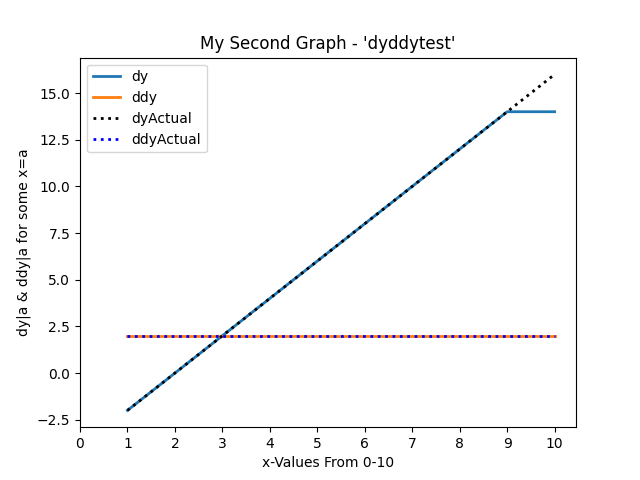
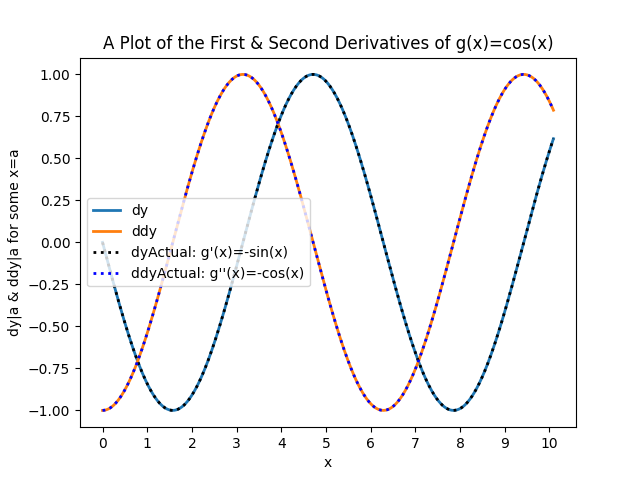
commit before final submission

diff --git a/project1.py b/project1.py
@@ -45,7 +45,7 @@ def myID():
 """
 The following code creates the x and y value arrays.
 """
-x = np.arange(0,10.1,0.1) # from 0-10 inclusive in steps of 0.1
+x = np.arange(0,10.1,0.01) # from 0-10 inclusive in steps of 0.1
 y = myfunction(x)
 
 """
@@ -54,9 +54,9 @@ The following code creates a graph with linewidth lw and adds the x-axis, y-axis
 lw = 2
 plt.clf() # clears the plot (source: https://www.activestate.com/resources/quick-reads/how-to-clear-a-plot-in-python/)
 plt.plot(x,y,linewidth=lw)
-plt.xlabel("x-Values From 0-10")
+plt.xlabel("x")
 plt.ylabel("myfunction(x)")
-plt.title("My First Graph - 'yPlot'")
+plt.title("A Plot of myFunction")
 plt.savefig("yplot.png")
  # plt.show()
 
@@ -87,8 +87,8 @@ def numdiff(h, y):
     """
     dyFirstValue = (-y[2]+(4*y[1])-(3*y[0]))/(2*h)
     ddyFirstValue = (-y[3]+(4*y[2])-(5*y[1])+(2*y[0]))/(h**2)
-    dyLastValue = ((3*y[n])-(4*y[n-1])+y[n-2])/(2*h)
-    ddyLastValue = ((2*y[n])-(5*y[n-1])+(4*y[n-2])-y[n-3])/(h**2)
+    dyLastValue = ((3*y[numElements-1])-(4*y[numElements-2])+y[numElements-3])/(2*h)
+    ddyLastValue = ((2*y[numElements-1])-(5*y[numElements-2])+(4*y[numElements-3])-(y[numElements-4]))/(h**2)
     dy.insert(0,dyFirstValue)
     ddy.insert(0,ddyFirstValue)
     dy.append(dyLastValue)
@@ -99,14 +99,17 @@ def numdiff(h, y):
 # TASK 4: Test your numdiff function on a function of your choice
 
 """
-The following code creates a function g(x) which can be differentiated twice
+The following code creates a function h(x) which can be differentiated twice
 """
-def g(x):
-    # g(x): int -> int
-    # My function is g(x) = x^2 - 4x + 3, such that the roots where g(x)=0 are at x=1,3
-    return ((x**2) - (4*x) + 3)
 
-xValues = [1,2,3,4,5,6,7,8,9,10] # an array of predetermined x-values
+def g(x):
+    # my function is cos(x)
+    # g(x): reals -> [-1,1]
+    return np.cos(x) 
+
+hVal = 0.01 # the spacing between each consecutive x value, which is predetermined
+
+xValues = np.arange(0,10.1,hVal) # an array of predetermined x-values
 yValues = [] # an empty array which will be populated with the corresponding y-values
 
 """
@@ -114,8 +117,9 @@ The following loop populates the yValues array with the appropriate y values.
 """
 for n in range(len(xValues)):
     yValues.append(g(xValues[n]))
+
  
-dy, ddy = numdiff(1,yValues) # the return values of the numdiff function are stored in the variables dy and ddy respectively
+dy, ddy = numdiff(hVal,yValues) # the return values of the numdiff function are stored in the variables dy and ddy respectively
 
 """
 The following functions define the actual first and second derivatives for my function g(x)
@@ -123,16 +127,17 @@ The following functions define the actual first and second derivatives for my fu
 
 def dyActual(x):
     # dyActual: int -> int
-    return ((2*x) - 4)
+    return ((np.sin(x)) * -1)
 
 def ddyActual(x):
     # ddyActual: int -> int
-    return 2
+    return ((np.cos(x)) * -1)
 
 dyActualValues = [] # empty list which will be populated with the real values of dy (i.e. values of dy calculated using the known g'(x) for my function g(x) rather than numerically using the numdiff function)
 ddyActualValues = [] # empty list which will be populated with the real values of dy (i.e. values of ddy calculated using the known g''(x) for my function g(x) rather than numerically using the numdiff function)
 
-for a in range(len(xValues)): # this loop populated the dyActualValues and ddyActualValues list as described above
+
+for a in range(len(xValues)): # this loop populates the dyActualValues and ddyActualValues list as described above
     dyActualValues.append(dyActual(xValues[a]))
     ddyActualValues.append(ddyActual(xValues[a]))
 
@@ -141,34 +146,35 @@ lw = 2 # define the linewidth
 plt.clf() # clears the plot (source: https://www.activestate.com/resources/quick-reads/how-to-clear-a-plot-in-python/)
 plt.plot(xValues,dy,linewidth=lw,label="dy") # plot the line for dy
 plt.plot(xValues,ddy,linewidth=lw,label="ddy") # plot the line for ddy
-plt.plot(xValues,dyActualValues,linewidth=lw,label="dyActual",linestyle=":", color="k") # linestyle and colour to show the actual vs numdiff calculated lines when they overlap (source: https://www.geeksforgeeks.org/python/linestyles-in-matplotlib-python/)
-plt.plot(xValues,ddyActualValues,linewidth=lw,label="ddyActual",linestyle=":",color="b")
+plt.plot(xValues,dyActualValues,linewidth=lw,label="dyActual: g'(x)=-sin(x)",linestyle=":", color="k") # linestyle and colour to show the actual vs numdiff calculated lines when they overlap (source: https://www.geeksforgeeks.org/python/linestyles-in-matplotlib-python/)
+plt.plot(xValues,ddyActualValues,linewidth=lw,label="ddyActual: g''(x)=-cos(x)",linestyle=":",color="b")
 plt.xticks(np.arange(0, 11, step=1)) # add labels for every integer x between 0 and 10 (source: https://saturncloud.io/blog/how-to-set-xaxis-values-in-matplotlib-python-a-guide/#:~:text=To%20set%20the%20x%2Daxis,the%20labels%20for%20these%20ticks.&text=In%20this%20example%2C%20np.,with%20a%20step%20of%201.)
 plt.legend() # add a legend
-plt.xlabel("x-Values From 0-10")
+plt.xlabel("x")
 plt.ylabel("dy|a & ddy|a for some x=a")
-plt.title("My Second Graph - 'dyddytest'")
+plt.title("A Plot of the First & Second Derivatives of g(x)=cos(x)")
 # plt.show()
 plt.savefig("dyddytest.png")
 
 
 # TASK 5: Plotting f'(x) and f''(x) for the function f(x) given by myfunction
-xValuesForMyFunction = [1,2,3,4,5,6,7,8,9,10]
+hValForMyFunctionPlot = 0.1
+xValuesForMyFunction = np.arange(0,10.1,hValForMyFunctionPlot)
 yValuesForMyFunction = []
 
 for i in range(len(xValuesForMyFunction)):
     yValuesForMyFunction.append(myfunction(xValuesForMyFunction[i]))
 
-dyForMyFunction, ddyForMyFunction = numdiff(1, yValuesForMyFunction)
+dyForMyFunction, ddyForMyFunction = numdiff(hValForMyFunctionPlot, yValuesForMyFunction)
 
 lw = 2
 plt.clf() # clears the plot (source: https://www.activestate.com/resources/quick-reads/how-to-clear-a-plot-in-python/)
 plt.plot(xValuesForMyFunction,dyForMyFunction,linewidth=lw,label="dyForMyFunction")
 plt.plot(xValuesForMyFunction,ddyForMyFunction,linewidth=lw,label="ddyForMyFunction")
 plt.legend()
-plt.xlabel("x-Values From 0-10")
+plt.xlabel("x")
 plt.ylabel("dy|a & ddy|a for some x=a")
-plt.title("My Third Graph - 'dyddy'")
+plt.title("A Plot of the First & Second Derivatives of myFunction")
 # plt.show()
 plt.savefig("dyddyplot.png")
 
@@ -209,10 +215,14 @@ def findroot(function,x1,x2): # findroot: function, int, int -> float, int
 # TASK 7: Test your findroot function on a function of your choice 
 
 """
-Note: The function g(x) was defined earlier as g(x) = (x-3)(x-1) such that it has roots x=1,3
+Define a function h(x) which has at least one root
 """
 
-findroot(g,0.9,1.1)
+def h(x):
+    # let h(x) = x^2 - 4x + 3 = (x-3)(x-1), meaning it has roots at x=1,3
+    return ((x**2) - (4*x) + 3)
+
+findroot(h,0.9,1.1)
 """
 The output is: "The function has converged to the root 1.0000006611963688"
 """
@@ -221,7 +231,7 @@ The output is: "The function has converged to the root 1.0000006611963688"
 
 # TASK 8: Apply your findroot function to f(x) defined by myfunction
 
-findroot(myfunction,1,2)
+findroot(myfunction,1,3)
 """
-The output is: "The function has converged to the root 2.370640317019967"
+The output is: "The function has converged to the root 2.370640317019967". This seems correct as we can see from the yplot.png file that the function seems to have a value of 0 around the point x=2.3, which is close to the root we have found
 """
